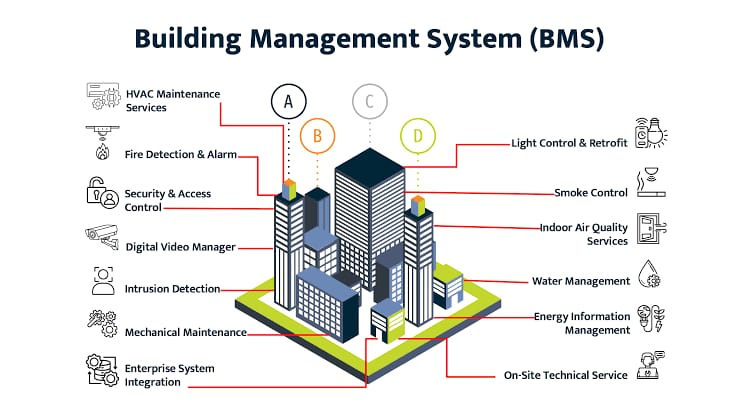
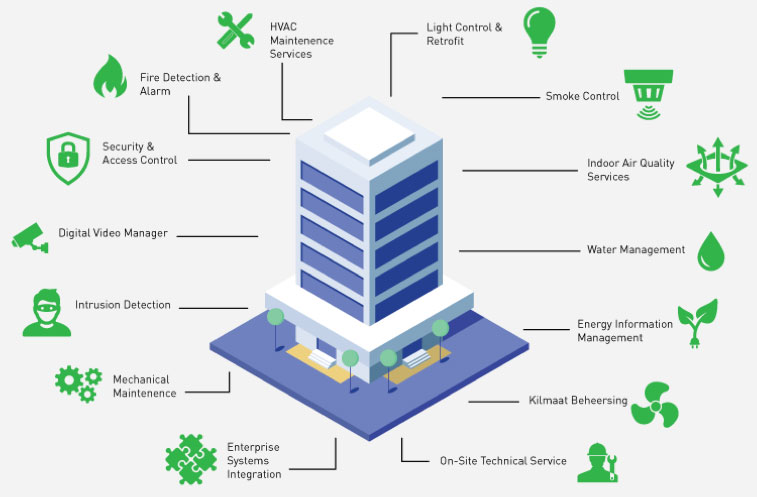
updated

Changed region(s): [[0.0, 0.0, 0.9959, 0.9831]]

diff --git a/src/app/case-study/page.tsx b/src/app/case-study/page.tsx
@@ -1,0 +1,101 @@
+import React, { useState } from 'react';
+
+interface CaseStudy {
+  title: string;
+  summary: string;
+  industry: string;
+  goal: string;
+  clientChallenge: string;
+  solution: string[];
+  techStack: string;
+  impact: string;
+  bestPractices: string[];
+}
+
+const caseStudies: CaseStudy[] = [
+  {
+    title: "Real Estate Project Management Web Portal",
+    summary: "Centralize tracking of multiple projects, units, and buyers in one dashboard.",
+    industry: "Real Estate",
+    goal: "Track multiple projects, units, and buyers in one dashboard",
+    clientChallenge: "Projects were tracked via Excel; buyers and payments were manually handled",
+    solution: [
+      "Developed a secure portal with login for agents, project managers, and clients",
+      "Synced Zoho CRM to track buyers and their payment milestones",
+      "Admin dashboard to manage Building → Units → Clients → Payments"
+    ],
+    techStack: "React.js, Node.js, Zoho CRM, Zoho Books",
+    impact: "70% improved visibility into project statuses and payment follow-ups",
+    bestPractices: [
+      "Modular project hierarchy: Project → Building → Unit → Buyer",
+      "Role-based dashboards for Sales, Admin, and Finance",
+      "CRM blueprint for booking → payment → handover"
+    ]
+  },
+  {
+    title: "Real Estate Buyer App with Document Tracking",
+    summary: "Empower buyers to view booking status, EMI schedule, and upload documents in-app.",
+    industry: "Real Estate / Property Sales",
+    goal: "Allow buyers to view booking status, EMI schedule, and upload documents",
+    clientChallenge: "Buyers kept calling to check status; paperwork was disorganized",
+    solution: [
+      "Built a buyer-facing mobile app with secure login",
+      "App displays real-time status updates fetched from Zoho CRM",
+      "Document upload flow connected with Zoho WorkDrive"
+    ],
+    techStack: "Flutter, Firebase, Zoho CRM, Zoho WorkDrive",
+    impact: "90% fewer customer support calls, increased buyer satisfaction",
+    bestPractices: [
+      "Push notifications for status updates and payment reminders",
+      "API integration with CRM stages and document folders",
+      "PDF auto-generation for receipts and agreements"
+    ]
+  }
+  // Add more case studies here as needed
+];
+
+const CaseStudyCard: React.FC<{ caseStudy: CaseStudy }> = ({ caseStudy }) => {
+  const [expanded, setExpanded] = useState(false);
+
+  return (
+    <div className="border border-blue-900 rounded-lg p-6 mb-5 shadow-md bg-blue-50 max-w-3xl w-full">
+      <h3 className="text-blue-900 text-xl font-bold mb-2">{caseStudy.title}</h3>
+      <p className="font-semibold mb-3">{caseStudy.summary}</p>
+      <button
+        onClick={() => setExpanded(!expanded)}
+        className={`px-5 py-2 rounded-full font-bold text-white transition-colors duration-300 ${expanded ? 'bg-gradient-to-r from-cyan-400 to-blue-900' : 'bg-gradient-to-r from-blue-900 to-cyan-400'}`}
+      >
+        {expanded ? 'See Less' : 'See More'}
+      </button>
+      {expanded && (
+        <div className="mt-4 text-gray-800 text-sm">
+          <p><strong>Industry:</strong> {caseStudy.industry}</p>
+          <p><strong>Goal:</strong> {caseStudy.goal}</p>
+          <p><strong>Client Challenge:</strong> {caseStudy.clientChallenge}</p>
+          <p><strong>Solution:</strong></p>
+          <ul className="list-disc list-inside mb-2">
+            {caseStudy.solution.map((item, idx) => <li key={idx}>{item}</li>)}
+          </ul>
+          <p><strong>Tech Stack:</strong> {caseStudy.techStack}</p>
+          <p><strong>Impact:</strong> {caseStudy.impact}</p>
+          <p><strong>Best Practices:</strong></p>
+          <ul className="list-disc list-inside">
+            {caseStudy.bestPractices.map((item, idx) => <li key={idx}>{item}</li>)}
+          </ul>
+        </div>
+      )}
+    </div>
+  );
+};
+
+const CaseStudies: React.FC = () => {
+  return (
+    <div className="p-5 flex flex-col items-center">
+      {caseStudies.map((cs, index) => (
+        <CaseStudyCard key={index} caseStudy={cs} />
+      ))}
+    </div>
+  );
+};
+
+export default CaseStudies;

diff --git a/src/app/dataipsys/page.jsx b/src/app/dataipsys/page.jsx
@@ -183,7 +183,7 @@ export default function Home() {
           </div>
           <div className="flex items-center justify-center xl:ml-14">
             <Image
-              src="/images/zoho/Zoho/Images/accessSystem1.jpg"
+              src="/images/zoho/Zoho/Images/accessSystem3.png"
               alt="IT Strategy"
               width={400}
               height={300}
@@ -193,11 +193,11 @@ export default function Home() {
         </div>
       </div>
 
-      <div className="mt-20 w-full max-w-6xl p-4 sm:p-10">
+      <div className="mt-10 w-full max-w-6xl p-4 sm:p-10">
         <div className="grid items-center gap-10 md:grid-cols-2">
           <div className="order-1 flex items-center justify-center md:order-none xl:mr-8">
             <Image
-              src="/images/zoho/Zoho/Images/accessSystem2.jpg"
+              src="/images/zoho/Zoho/Images/accessSystem2.png"
               alt="Digital Planning"
               width={400}
               height={300}

diff --git a/src/app/our-project/page.tsx b/src/app/our-project/page.tsx
@@ -67,7 +67,7 @@ const projects = [
   },
   {
     projectName: "Al Riyadh Hospital",
-    Location: "Jeddah",
+    Location: "Riyadh",
     Client: "Inma-Tech",
     imageURL:
       "https://sedra.net.sa/wp-content/uploads/2024/08/RH-Hospital-B-1024x682.png",
@@ -132,7 +132,7 @@ const projects = [
   },
   {
     projectName: "Riyadh Metro",
-    Location: "Unknown",
+    Location: "Riyadh Metro",
     Client: "Kgtech",
     imageURL:
       "https://sedra.net.sa/wp-content/uploads/2024/05/Riyadh-Metro.jpg",
@@ -140,7 +140,7 @@ const projects = [
   },
   {
     projectName: "KAIA",
-    Location: "Unknown",
+    Location: "Jeddah",
     Client: "Kholoud trading company",
     imageURL:
       "https://sedra.net.sa/wp-content/uploads/2024/03/WhatsApp-Image-2022-06-25-at-3.45.05-PM.jpeg",

diff --git a/src/app/bms/page.jsx b/src/app/bms/page.jsx
@@ -192,7 +192,7 @@ export default function Home() {
         <div className="grid items-center gap-10 md:grid-cols-2">
           <div className="order-1 flex items-center justify-center md:order-none xl:mr-8">
             <Image
-              src="/images/zoho/Zoho/Images/BMS2.jpg"
+              src="/images/zoho/Zoho/Images/bms.png"
               alt="Digital Planning"
               width={400}
               height={300}
